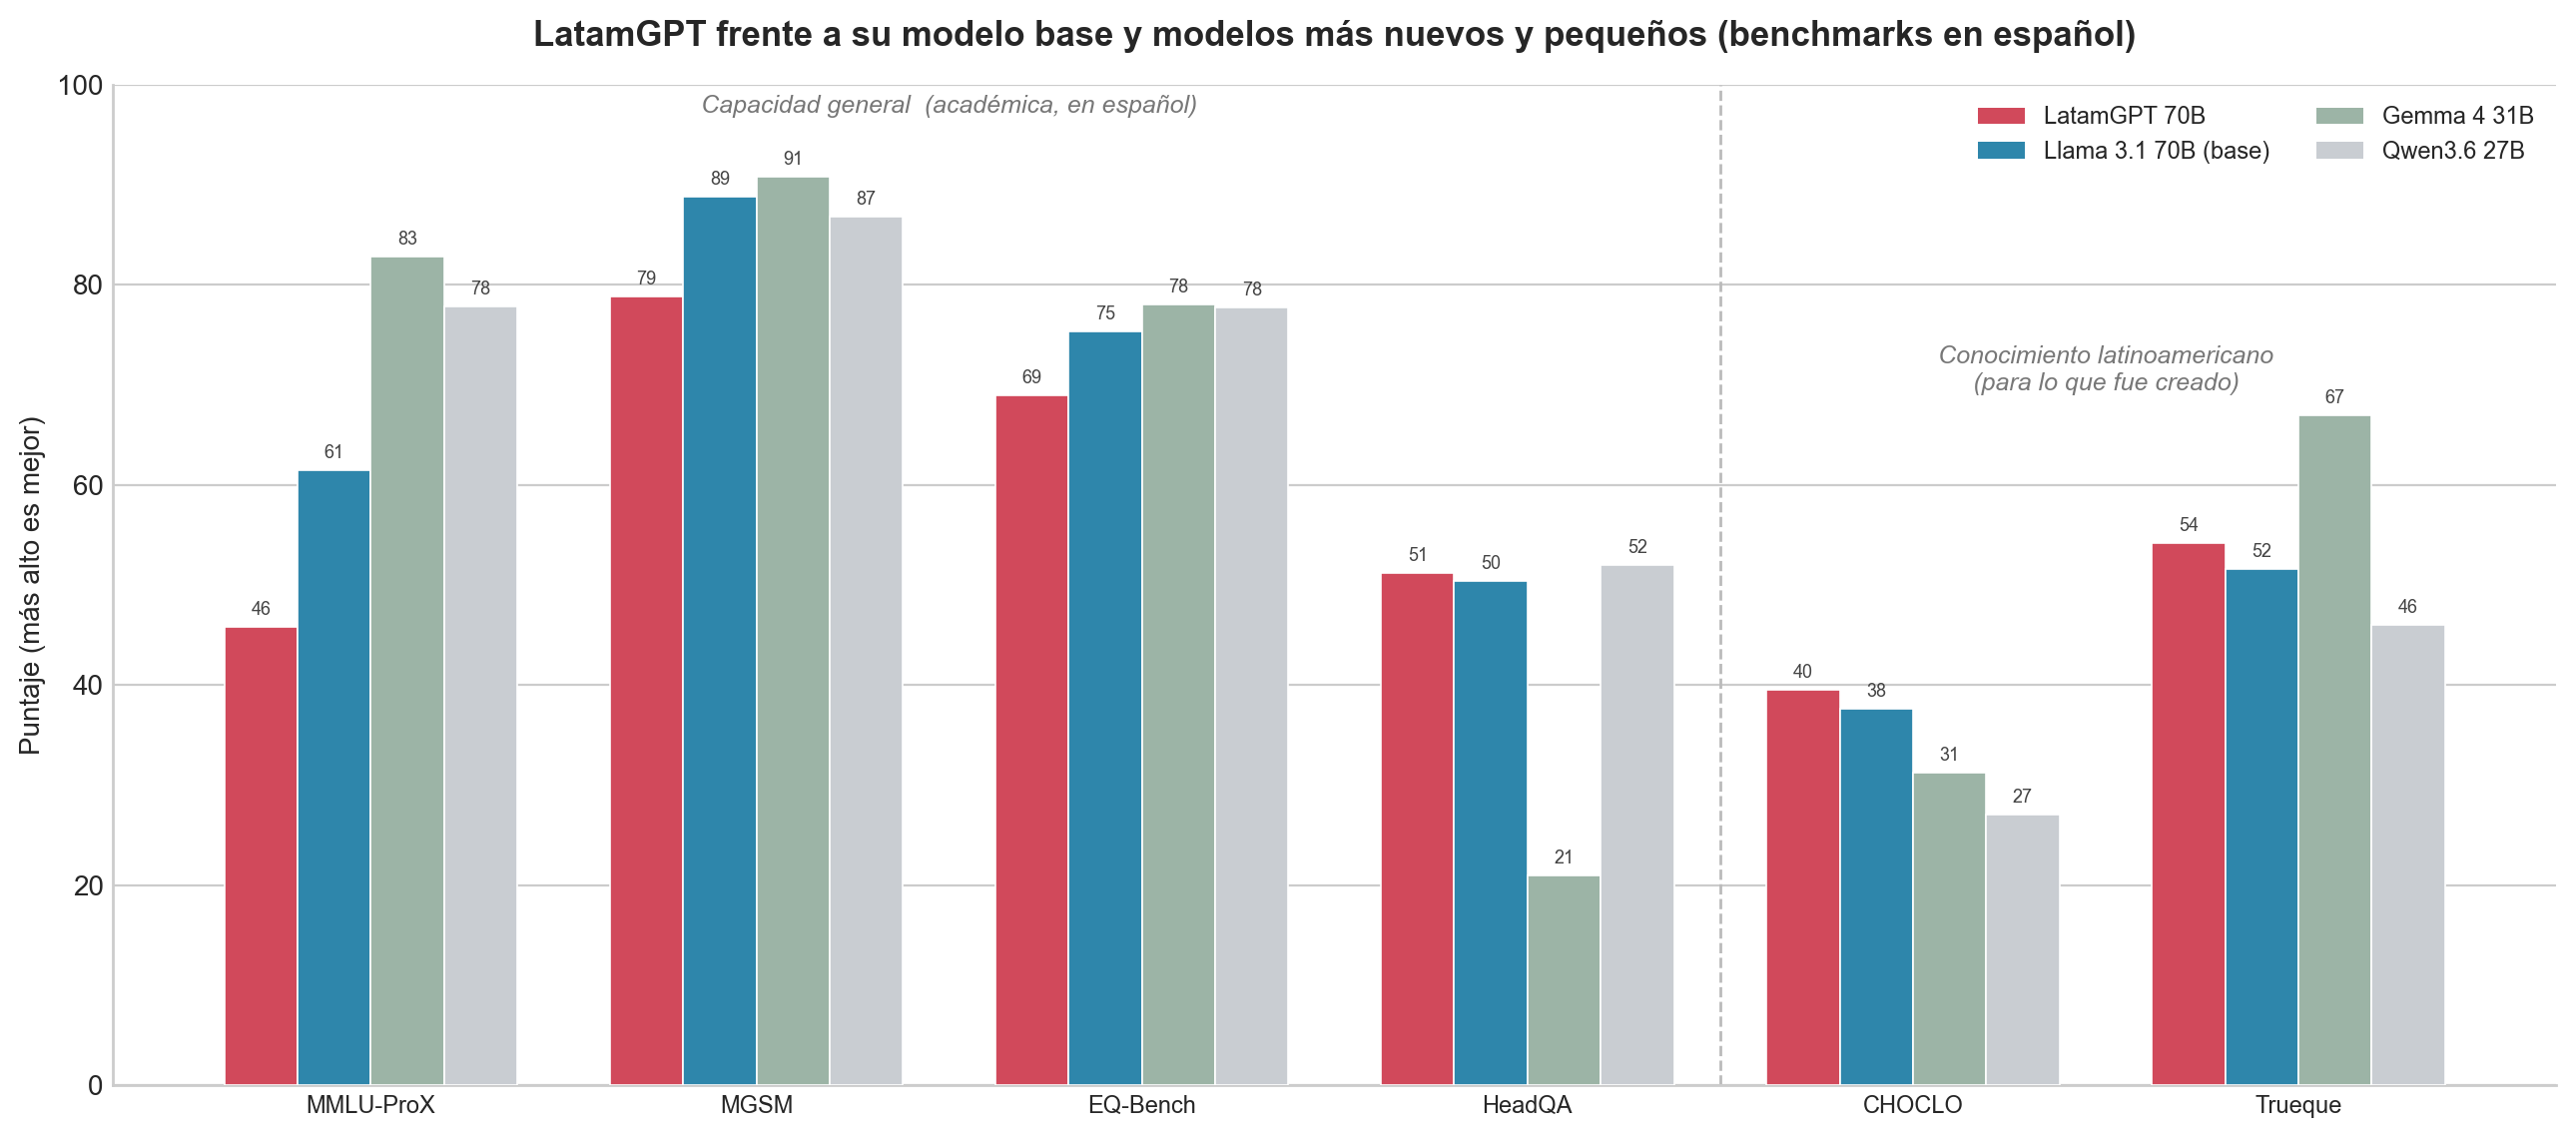
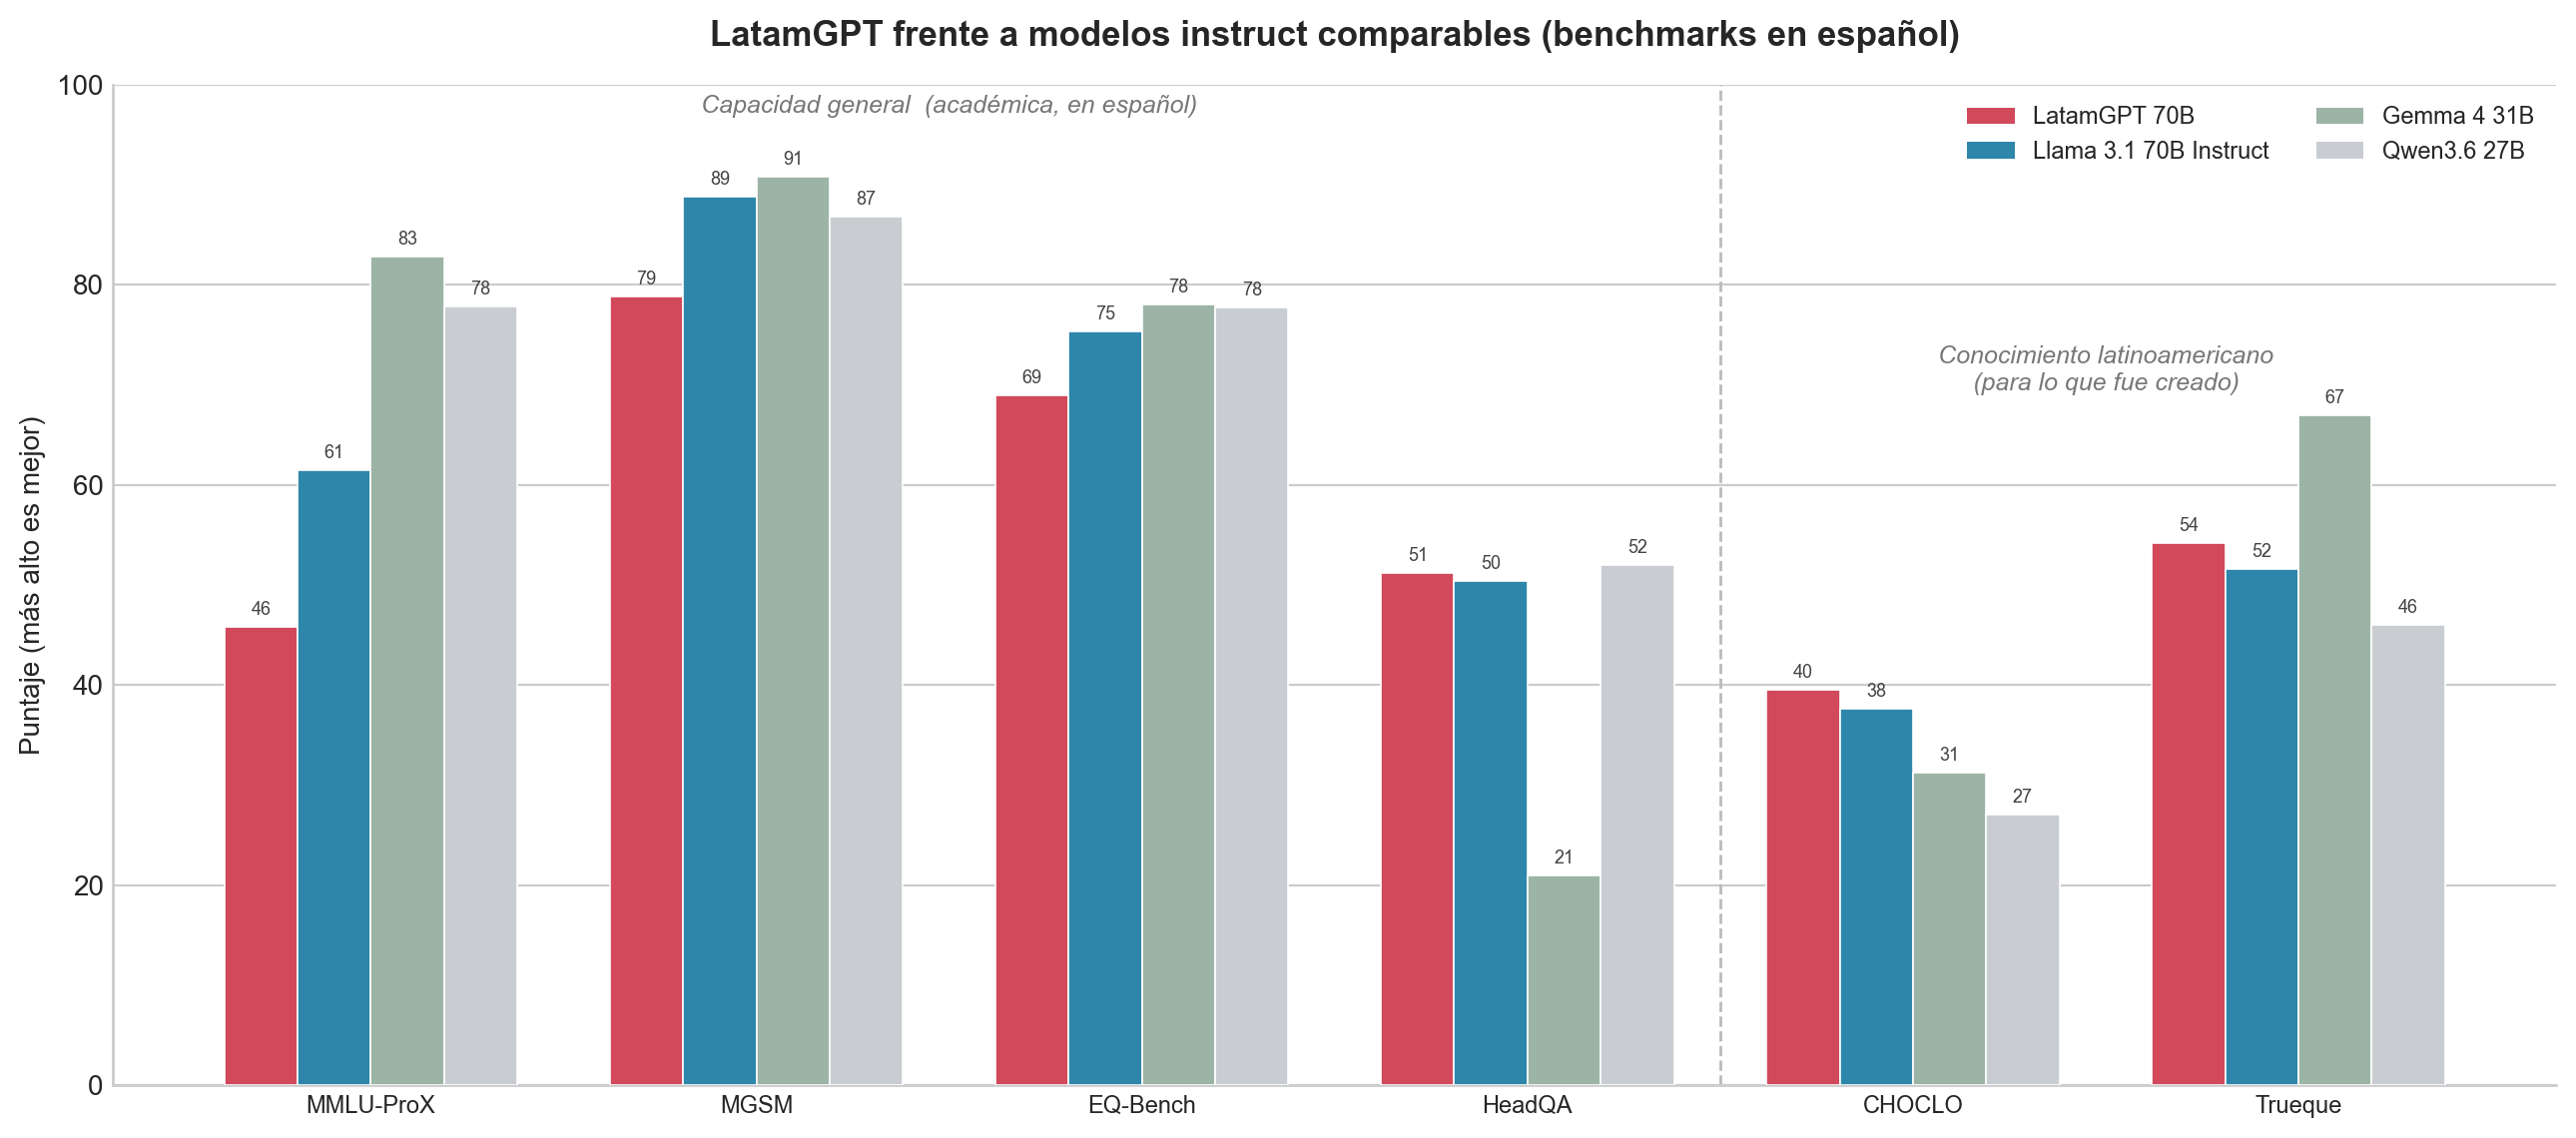
Add Spanish version + language links; tweak English contribution section
- New Spanish page (/posts/2026/blog-latamgpt-benchmarks-es/) mirroring the
  reworked English post, with Spanish-labeled chart
- "Leer en español" / "Read in English" links between the two
- English: drop the proposal aside, add the fast-cadence point (release tracker)

Changed region(s): [[0.2171, 0.0, 0.8372, 0.0614], [0.7752, 0.0921, 0.8992, 0.1535]]

diff --git a/_pages/blog-latamgpt-benchmarks-es.md b/_pages/blog-latamgpt-benchmarks-es.md
@@ -1,0 +1,117 @@
+---
+permalink: /posts/2026/blog-latamgpt-benchmarks-es/
+title: 'Lo que LatamGPT sabe (y lo que no): una primera mirada a sus benchmarks'
+author_profile: true
+---
+
+<p style="text-align:center;"><em><a href="/posts/2026/blog-latamgpt-benchmarks/">Read in English</a></em></p>
+
+<p style='text-align: justify;'>
+En febrero de 2026, <a href="https://www.france24.com/en/live-news/20260210-latam-gpt-a-latin-american-ai-to-combat-us-centric-bias">LatamGPT fue presentado</a> en medio de un gran entusiasmo regional: el primer modelo de lenguaje grande y abierto construido <em>desde y para</em> América Latina y el Caribe, coordinado por el CENIA de Chile junto a más de sesenta instituciones de la región. La promesa era soberanía y relevancia cultural: pasar de consumir modelos extranjeros a producir los propios. Pero cuando los <a href="https://www.linkedin.com/posts/omar-u-florez_latamgpt-share-7467314002256257025-L45F/">pesos abiertos se liberaron el 1 de junio de 2026</a>, llegaron sin una sola cifra de benchmark, y el informe técnico aún no aparece. Como alguien que lleva años trabajando con modelos de lenguaje, tuve la curiosidad de no esperar—así que hice una evaluación temprana e independiente sobre un conjunto de tareas solo en español más los benchmarks culturales que el CENIA acaba de publicar. Tómalo como una vista previa, a confirmar cuando lleguen las cifras oficiales. La pregunta que quería responder es simple: ¿qué sabe LatamGPT que otros modelos no?
+</p>
+
+## Qué es LatamGPT, y con qué lo comparé
+
+<p style='text-align: justify;'>
+<a href="https://huggingface.co/latam-gpt/Llama-3.1-70B-LatamGPT-SFT-1.0">LatamGPT</a> parte de Llama 3.1 70B de Meta (el modelo base) y lo adapta en dos etapas: <em>pre-entrenamiento continuo</em> (CPT) sobre unas <a href="https://aibusiness.com/generative-ai/the-new-open-source-ai-model-for-latin-america">230 mil millones de palabras</a> de texto regional con licencia—español, portugués y lenguas indígenas—seguido de ajuste supervisado (SFT) para seguir instrucciones. El modelo liberado, entonces, es un modelo instruct—y eso define la comparación: la vara justa no es GPT-5 ni un ideal abstracto, sino otros modelos instruct de tamaño similar o menor. Lo enfrento a tres: el propio <strong>Llama 3.1 70B Instruct</strong> de Meta (construido desde la misma base), y dos modelos más nuevos y pequeños, <strong>Gemma 4 31B</strong> y <strong>Qwen3.6 27B</strong>. Los cuatro son modelos instruct, evaluados de la misma manera.
+</p>
+
+<p style='text-align: justify;'>
+Así se comparan los cuatro modelos en todos los benchmarks que evalué:
+</p>
+
+<p align="center">
+    <img src="/images/latamgpt-benchmarks-es.png" width="760">
+	<center>
+	<figcaption>En los benchmarks generales en español (izquierda), LatamGPT (rojo) queda por debajo del Llama 3.1 70B Instruct de Meta (azul) y de los dos modelos más nuevos y pequeños—salvo en HeadQA, donde empata (y el puntaje de Gemma parece un artefacto de evaluación). En los benchmarks culturales del CENIA (derecha) la imagen cambia: LatamGPT encabeza CHOCLO de forma rotunda, aunque Gemma gana el Trueque, más pequeño y revisado por humanos.</figcaption>
+	</center>
+</p>
+
+## Donde rinde frutos: el conocimiento latinoamericano
+
+<p style='text-align: justify;'>
+Si LatamGPT sabe algo que otros modelos no, es aquí donde debería notarse: en los benchmarks construidos para la región. CHOCLO—<a href="https://www.linkedin.com/posts/te-invitamos-a-nuestro-pr%C3%B3ximo-webinar-donde-ugcPost-7450985197631791105-XLKo/">un lanzamiento del CENIA dentro del mismo esfuerzo de Latam-GPT</a>, disponible abiertamente <a href="https://huggingface.co/datasets/latam-gpt/CHOCLO">en Hugging Face</a>—es un benchmark de 104,847 preguntas sobre conocimiento cultural latinoamericano (comida, flora y fauna, geografía, tradiciones, figuras públicas). Lo evalúo con un juez LLM que decide si cada respuesta es semánticamente equivalente o no a la respuesta de referencia; el número es la proporción de respuestas juzgadas equivalentes (los detalles del juez están en la nota al final). Aquí LatamGPT queda primero: el 39.5% de sus respuestas se juzgan equivalentes, por delante de Llama 3.1 Instruct (37.6) y bastante por delante de los modelos más nuevos (Gemma 4 31B con 31.3, Qwen3.6 27B con 27.1)—y esa ventaja se mantiene en todos los niveles de dificultad.
+</p>
+
+<p style='text-align: justify;'>
+Este es el resultado alentador. El conocimiento cultural latinoamericano no surge de la escala ni de la novedad—Gemma y Qwen son más nuevos y potentes, y aun así quedan por detrás aquí, porque los datos sobre un plato chileno o una tradición peruana simplemente nunca estuvieron en su entrenamiento. No se puede razonar hasta un conocimiento que nunca se vio. El corpus regional metió ese conocimiento, y CHOCLO lo detecta.
+</p>
+
+<p style='text-align: justify;'>
+Pero no gana <em>todas</em> las pruebas culturales. <a href="https://huggingface.co/datasets/latam-gpt/Trueque-Benchmark-beta-0.1">Trueque</a>—un benchmark de QA latinoamericano más pequeño, colaborativo y revisado por humanos (500 preguntas en esta beta, evaluado de la misma manera)—cuenta una historia más mixta. LatamGPT vuelve a superar a Llama 3.1 Instruct (54.2 vs. 51.6) y a Qwen (46.0), pero Gemma 4 31B queda arriba, 67.0 contra 54.2. En los datos de cola larga generados automáticamente de CHOCLO, los datos regionales son decisivos; en las preguntas más amplias y revisadas por humanos de Trueque, un modelo general más potente puede imponerse.
+</p>
+
+<p style='text-align: justify;'>
+Ambos benchmarks culturales lado a lado, con CHOCLO desglosado por dificultad:
+</p>
+
+| Equivalencia semántica binaria (%) | LatamGPT 70B | Llama 3.1 70B | Gemma 4 31B | Qwen3.6 27B |
+| --- | --- | --- | --- | --- |
+| CHOCLO — General (n = 104,847) | **39.5** | 37.6 | 31.3 | 27.1 |
+| — Fácil | **59.8** | 57.1 | 48.4 | 45.1 |
+| — Intermedia | **33.9** | 32.3 | 24.3 | 20.7 |
+| — Difícil | **24.9** | 23.6 | 21.3 | 15.6 |
+| Trueque — General (n = 500, beta) | 54.2 | 51.6 | **67.0** | 46.0 |
+
+## Donde se queda atrás: la capacidad general
+
+<p style='text-align: justify;'>
+Ahora el otro lado. A diferencia del inglés, no existe un conjunto de benchmarks estándar y consensuado para los LLM en español, así que armé uno con tareas disponibles abiertamente que reflejan lo que normalmente se reporta para los modelos en inglés—y en estas, LatamGPT queda por debajo de los tres modelos de comparación. En MMLU-ProX (es)—el benchmark de razonamiento más limpio y completamente en español del conjunto—obtiene 45.8, frente al 61.5 de Llama 3.1 Instruct y más de 80 de Gemma. La matemática escolar (MGSM) llega a 78.8 (vs. 88.8 de Llama Instruct); el razonamiento emocional de EQ-Bench, a 69.0 (vs. 75.4). La única tarea general donde empata es HeadQA, un examen médico tipo QA (51.2 vs. 50.4).
+</p>
+
+<p style='text-align: justify;'>
+Las cifras exactas de los benchmarks generales:
+</p>
+
+| Benchmark general (español) | Shots | n | Métrica | LatamGPT 70B | Llama 3.1 70B | Gemma 4 31B | Qwen3.6 27B |
+| --- | --- | --- | --- | --- | --- | --- | --- |
+| MMLU-ProX (es) | 5 | 11,759 | EM | 45.81 | 61.48 | **82.86** | 77.82 |
+| MGSM native-CoT (es) | 8 | 250 | EM | 78.80 | 88.80 | **90.80** | 86.80 |
+| EQ-Bench (es) | 0 | 168 | EQ-Bench | 68.95 | 75.35 | **78.06** | 77.70 |
+| HeadQA (es) | 0 | 2,742 | Acc | 51.17 | 50.40 | 20.97 | **52.04** |
+
+<p style='text-align: justify;'>
+EM = exact match (coincidencia exacta), Acc = accuracy (exactitud); EQ-Bench usa su propia escala 0–100. En negrita, el mejor puntaje de cada fila. Los cuatro son modelos instruct; la columna "Llama 3.1 70B" es el checkpoint Instruct (ver la nota al final). El puntaje de Gemma en HeadQA se deja de lado como artefacto.
+</p>
+
+## ¿Por qué la brecha?
+
+<p style='text-align: justify;'>
+Entonces el modelo liberado conoce la región mejor que cualquiera de los demás, pero queda por detrás en lo académico general. ¿Por qué? El pre-entrenamiento continuo es engañosamente difícil: empujas los pesos de un modelo ya terminado hacia una nueva distribución de datos, y no tiene ninguna obligación de conservar intactas sus habilidades anteriores mientras lo haces. El modo de fallo clásico es el <em>olvido catastrófico</em>—un modelo que pierde lo que sabía a medida que aprende algo nuevo—un riesgo real y bien estudiado siempre que sigues entrenando un modelo terminado, y uno que he estudiado de primera mano, en <a href="https://aclanthology.org/2024.findings-emnlp.38/">aprendizaje continuo</a> y <a href="https://aclanthology.org/2021.emnlp-main.240/">pre-entrenamiento continuo</a>. Eso lo convierte en el principal sospechoso de la caída de LatamGPT en capacidad general, ya sea que se haya colado en la etapa de CPT, la de SFT, o ambas.
+</p>
+
+<p style='text-align: justify;'>
+Pero no puedo probarlo. Atribuir la brecha al olvido de forma limpia requeriría el checkpoint solo-CPT—antes del ajuste por instrucciones—y ese no se ha liberado, así que por ahora queda como hipótesis. Aun así, un detalle sugiere que la caída es al menos en parte real. El ajuste por instrucciones, si acaso, eleva ligeramente los puntajes tipo MMLU en lugar de bajarlos—por ejemplo, Llama 3.1 70B pasa de 79.3 (base) a <a href="https://huggingface.co/meta-llama/Llama-3.1-70B-Instruct">83.6 (instruct)</a>. Así que el ajuste por instrucciones de LatamGPT debería haber subido su puntaje, no bajarlo. Sin embargo, en MMLU-ProX queda en 45.8—unos 16 puntos por debajo del 61.5 de Llama 3.1 Instruct, desde la misma base. Una diferencia tan grande, en la dirección opuesta a lo que hace el ajuste, apunta de vuelta a la etapa de pre-entrenamiento continuo. Frente a los modelos más nuevos es en parte otra historia: Gemma 4 y Qwen3.6 son unos dos años más nuevos que la base Llama de 2024 de LatamGPT, así que parte de esa brecha es solo cuestión de época. El informe técnico—e idealmente los pesos intermedios, solo-CPT—lo resolverían.
+</p>
+
+## Entonces, ¿cuál es la contribución real?
+
+<p style='text-align: justify;'>
+Demos un paso atrás, y las cifras tempranas plantean una pregunta que me parece más interesante que cualquier puntaje aislado: <strong>¿cuál es la contribución duradera aquí—el modelo o los datos?</strong> Los pesos abiertos quedan superados rápido—<a href="https://aiflashreport.com/model-releases.html">no dejan de aparecer modelos abiertos potentes</a>—así es el ritmo del campo. Pero el corpus regional y benchmarks como CHOCLO son el tipo de activo que no caduca. Algunas preguntas que vale la pena considerar como comunidad: ¿necesita la región <em>entrenar</em> un modelo, o <em>curar</em> datos que puedan moldear <em>cualquier</em> modelo? CHOCLO ya muestra dónde se concentra el valor—el conocimiento latinoamericano que codifica es justo donde LatamGPT saca ventaja. Esa señal puede ser más poderosa como recurso portátil—usable mediante <a href="https://arxiv.org/abs/2511.01649">generación aumentada por recuperación</a>, ejemplos en contexto, <a href="https://arxiv.org/abs/2402.10946">ajuste fino más económico</a>, o como una <a href="https://platform.claude.com/docs/en/agents-and-tools/agent-skills/overview">habilidad</a> de competencia cultural invocable por sistemas de agentes—que congelada en un único conjunto de pesos.
+</p>
+
+<p style='text-align: justify;'>
+Nada de esto es un veredicto—es una lectura temprana, y el informe oficial puede afinar o revertir partes de ella. Lo que ya está claro es lo que LatamGPT logró: una colaboración grande y multinacional que reunió datos regionales con licencia a escala—incluyendo portugués y lenguas indígenas que los modelos comerciales suelen ignorar—construyó capacidad real de entrenamiento en la región, y produjo el modelo que mejor captura el conocimiento cultural latinoamericano hoy. Mucho de eso nunca aparece en un puntaje de benchmark, y sí importa. Es un primer lanzamiento, una versión 1.0 con mucho espacio para crecer, y los datos detrás son un bien público real. Si los modelos son los motores, los datos definen el terreno—y lo más duradero que puede hacer la región es codificar su terreno con la suficiente profundidad como para que todo modelo, el de este año o el del próximo, tenga que aprenderlo.
+</p>
+
+## Una nota sobre los números
+
+<p style='text-align: justify;'>
+Algunas salvedades. Todos los benchmarks están en español—tanto los prompts de generación de respuestas como los de evaluación. Los benchmarks académicos se corrieron con <a href="https://github.com/EleutherAI/lm-evaluation-harness/">lm-evaluation-harness de EleutherAI</a>; CHOCLO y Trueque se evaluaron con <a href="https://github.com/confident-ai/deepeval">DeepEval</a> usando un único juez externo (gpt-5.4-mini) aplicado de forma idéntica a cada modelo, así que esas columnas son comparables. La evaluación nativa de CHOCLO es híbrida (léxica, embeddings, juez LLM); yo reporto solo la parte de juez LLM, como una decisión binaria equivalente/no equivalente, y como los repositorios no documentan del todo su evaluación, conviene leer los puntajes absolutos de CHOCLO/Trueque como internamente consistentes más que oficiales. Los cuatro son modelos instruct; la base de comparación de Llama es <code>Llama-3.1-70B-Instruct</code>. LatamGPT en sí es <code>Llama-3.1-70B</code> (base) + CPT + SFT; el checkpoint solo-CPT no es público, así que comparo los modelos instruct liberados y no puedo aislar la etapa de CPT. Uso MMLU-ProX (es) como número de MMLU porque está completamente en español. Gemma 4 31B y Qwen3.6 27B se ejecutaron con el razonamiento ("thinking") desactivado. Cada resultado proviene de una sola corrida, salvo Gemma 4 31B en HeadQA, que corrí tres veces—≈21 (por debajo del azar) cada vez, casi con certeza un artefacto de evaluación.
+</p>
+
+## Referencias
+
+- Ficha del modelo LatamGPT: [latam-gpt/Llama-3.1-70B-LatamGPT-SFT-1.0](https://huggingface.co/latam-gpt/Llama-3.1-70B-LatamGPT-SFT-1.0) y la [organización Latam-GPT](https://huggingface.co/latam-gpt) en Hugging Face.
+- Dataset CHOCLO: [latam-gpt/CHOCLO](https://huggingface.co/datasets/latam-gpt/CHOCLO).
+- Dataset Trueque: [latam-gpt/Trueque-Benchmark-beta-0.1](https://huggingface.co/datasets/latam-gpt/Trueque-Benchmark-beta-0.1).
+- Omar U. Flórez (2026). [*Anuncio del lanzamiento de los pesos abiertos de LatamGPT (1 de junio de 2026)*](https://www.linkedin.com/posts/omar-u-florez_latamgpt-share-7467314002256257025-L45F/).
+- CENIA (2026). [*Benchmarks CHOCLO y Trueque — anuncio de lanzamiento*](https://www.linkedin.com/posts/te-invitamos-a-nuestro-pr%C3%B3ximo-webinar-donde-ugcPost-7450985197631791105-XLKo/) (LinkedIn).
+- France24 (2026). [*Latam-GPT: a Latin American AI to combat US-centric bias*](https://www.france24.com/en/live-news/20260210-latam-gpt-a-latin-american-ai-to-combat-us-centric-bias).
+- AI Business (2026). [*Meet Latam-GPT, the New Open Source AI Model for Latin America*](https://aibusiness.com/generative-ai/the-new-open-source-ai-model-for-latin-america) (fuente de la cifra de ~230 mil millones de palabras / 300 mil millones de tokens, atribuida al CENIA).
+- Brookings (2026). [*Latam-GPT and the search for AI sovereignty*](https://www.brookings.edu/articles/latam-gpt-and-the-search-for-ai-sovereignty/).
+- Rest of World (2025). [*Latin America is building LatamGPT to rival ChatGPT*](https://restofworld.org/2025/chatgpt-latin-america-alternative-latamgpt/).
+- Vladimir Araujo, Andrés Villa, Marcelo Mendoza, Marie-Francine Moens, and Alvaro Soto. 2021. [*Augmenting BERT-style Models with Predictive Coding to Improve Discourse-level Representations*](https://aclanthology.org/2021.emnlp-main.240/). EMNLP 2021.
+- Vladimir Araujo, Marie-Francine Moens, and Tinne Tuytelaars. 2024. [*Learning to Route for Dynamic Adapter Composition in Continual Learning with Language Models*](https://aclanthology.org/2024.findings-emnlp.38/). Findings of EMNLP 2024.
+- EleutherAI. [*lm-evaluation-harness*](https://github.com/EleutherAI/lm-evaluation-harness/) (evaluación de benchmarks académicos).
+- Confident AI. [*DeepEval*](https://github.com/confident-ai/deepeval) (evaluación con LLM como juez, usada para CHOCLO y Trueque).

diff --git a/_posts/2026-06-09-blog-3-latamgpt.md b/_posts/2026-06-09-blog-3-latamgpt.md
@@ -10,6 +10,8 @@ tags:
   - Spanish NLP
   - continual learning
 ---
+<p style="text-align:center;"><em><a href="/posts/2026/blog-latamgpt-benchmarks-es/">Leer en español</a></em></p>
+
 <p style='text-align: justify;'>
 In February 2026, <a href="https://www.france24.com/en/live-news/20260210-latam-gpt-a-latin-american-ai-to-combat-us-centric-bias">LatamGPT was presented</a> to a wave of regional enthusiasm: the first open large language model built <em>from and for</em> Latin America and the Caribbean, coordinated by Chile's CENIA and more than sixty institutions across the region. The promise was sovereignty and cultural relevance—moving Latin America from a consumer of foreign models to a producer of its own. When the <a href="https://www.linkedin.com/posts/omar-u-florez_latamgpt-share-7467314002256257025-L45F/">open weights landed on June 1, 2026</a>, though, they came without a single benchmark number, and the technical report hasn't appeared yet. As someone who has spent years working with language models, I was curious enough not to wait—so I ran an early, independent evaluation on a set of Spanish-only tasks plus the cultural benchmarks CENIA just released. Treat this as a preview, to be confirmed when the official numbers arrive. The question I wanted to answer is simple: what does LatamGPT actually know that other models don't?
 </p>
@@ -91,7 +93,7 @@ I can't prove it, though. Pinning the gap on forgetting cleanly would need the C
 ## So what's the real contribution?
 
 <p style='text-align: justify;'>
-Step back, and the early numbers raise a question I find more interesting than any single score: <strong>what is the durable contribution here—the model, or the data?</strong> Open weights are superseded fast; that's just the cadence of the field. But the regional corpus and benchmarks like CHOCLO are the kind of asset that doesn't expire. A few questions worth sitting with as a community: Does the region need to <em>train</em> a model, or to <em>curate</em> data that can shape <em>any</em> model? CHOCLO already shows where the value concentrates—the Latin American knowledge it encodes is exactly where LatamGPT pulls ahead. That signal may be more powerful as a portable resource—usable through <a href="https://arxiv.org/abs/2511.01649">retrieval-augmented generation</a>, in-context examples, lighter and more <a href="https://arxiv.org/abs/2402.10946">cost-effective fine-tuning</a>, or as a callable cultural-competence <a href="https://platform.claude.com/docs/en/agents-and-tools/agent-skills/overview">skill</a> for agentic systems—than frozen into one set of weights. (It's a direction I've been exploring in a data-first benchmark proposal.)
+Step back, and the early numbers raise a question I find more interesting than any single score: <strong>what is the durable contribution here—the model, or the data?</strong> Open weights are superseded fast—strong open models <a href="https://aiflashreport.com/model-releases.html">keep arriving at a steady clip</a>—so that's just the cadence of the field. But the regional corpus and benchmarks like CHOCLO are the kind of asset that doesn't expire. A few questions worth sitting with as a community: Does the region need to <em>train</em> a model, or to <em>curate</em> data that can shape <em>any</em> model? CHOCLO already shows where the value concentrates—the Latin American knowledge it encodes is exactly where LatamGPT pulls ahead. That signal may be more powerful as a portable resource—usable through <a href="https://arxiv.org/abs/2511.01649">retrieval-augmented generation</a>, in-context examples, lighter and more <a href="https://arxiv.org/abs/2402.10946">cost-effective fine-tuning</a>, or as a callable cultural-competence <a href="https://platform.claude.com/docs/en/agents-and-tools/agent-skills/overview">skill</a> for agentic systems—than frozen into one set of weights.
 </p>
 
 <p style='text-align: justify;'>